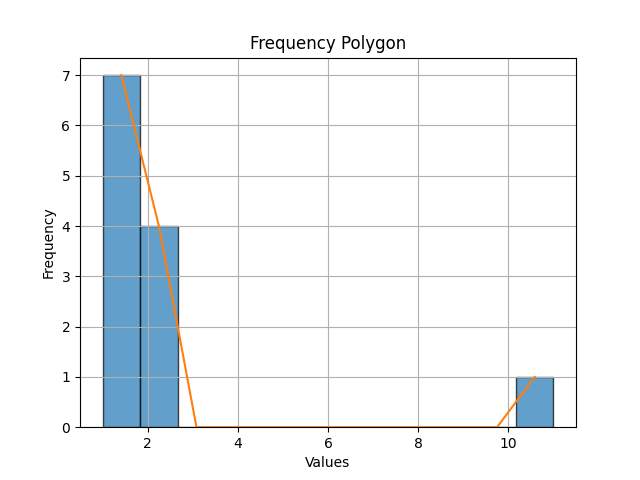
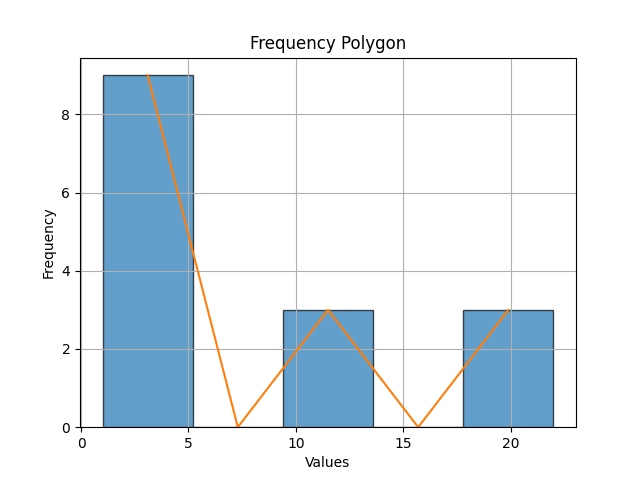
adden kurtoisis and skewness graphs

diff --git a/main.py b/main.py
@@ -3,7 +3,12 @@ from PyQt5.QtWidgets import QApplication, QMainWindow, QLabel, QLineEdit, QPushB
 from PyQt5.QtGui import QColor, QPalette, QPixmap  
 from PyQt5.QtCore import Qt 
 from data_processing import process_data  
-from plotting import calculate_frequency_polygon, calculate_cumulative_curve
+from plotting import calculate_frequency_polygon, calculate_cumulative_curve, calculate_skewness_graph, calculate_kurtosis_graph
+import cgitb
+import codecs
+
+cgitb.enable()
+sys.stdout = codecs.getwriter("utf-8")(sys.stdout.detach())
 
 class MainWindow(QMainWindow):
     def __init__(self):
@@ -17,9 +22,9 @@ class MainWindow(QMainWindow):
         self.central_widget.setLayout(self.layout)
 
         input_container_layout = QVBoxLayout()  
-        self.input_label = QLabel("Enter numbers (separated by space):")
+        self.input_label = QLabel("Введіть числа (розділені пробілами):")
         self.input_field = QLineEdit()
-        self.calculate_button = QPushButton("Calculate")
+        self.calculate_button = QPushButton("Розрахувати")
         self.calculate_button.clicked.connect(lambda: self.calculate_callback())
 
         input_container_layout.addWidget(self.input_label)
@@ -35,8 +40,8 @@ class MainWindow(QMainWindow):
         # Create two tabs
         self.tab_statistics = QWidget()
         self.tab_graphs = QWidget()
-        self.tab_widget.addTab(self.tab_statistics, "Statistics")
-        self.tab_widget.addTab(self.tab_graphs, "Graphs")
+        self.tab_widget.addTab(self.tab_statistics, "Статистика")
+        self.tab_widget.addTab(self.tab_graphs, "Графіки")
 
         # Layouts for each tab
         self.layout_statistics = QVBoxLayout()
@@ -48,10 +53,10 @@ class MainWindow(QMainWindow):
         tables_container = QWidget()  # Create a QWidget to contain the QGridLayout
         tables_layout = QGridLayout(tables_container)
         self.tables = []
-        for i, title in enumerate(["Variation Series", "Statistical Distribution", "Relative Frequencies", "Cumulative Frequencies", "Relative Cumulative Frequencies"]):
+        for i, title in enumerate(["Варіаційний ряд", "Статистичний розподіл", "Відносні частоти", "Накопичувальні частоти", "Відносні накопичувальні частоти"]):
             table = QTableWidget()
             table.setColumnCount(2)
-            table.setHorizontalHeaderLabels(["Statistic", "Value"])
+            table.setHorizontalHeaderLabels(["Статистика", "Значення"])
             self.tables.append(table)
             tables_layout.addWidget(QLabel(f"<b>{title}</b>"), 0, i)
             tables_layout.addWidget(table, 1, i)
@@ -63,12 +68,18 @@ class MainWindow(QMainWindow):
         self.mean_label = QLabel()
         self.variance_label = QLabel()
         self.std_deviation_label = QLabel()
+        self.central_moment_label = QLabel()
+        self.skewness_label = QLabel()
+        self.kurtosis_label = QLabel()
 
         self.layout_statistics.addWidget(self.mode_label)
         self.layout_statistics.addWidget(self.median_label)
         self.layout_statistics.addWidget(self.mean_label)
         self.layout_statistics.addWidget(self.variance_label)
         self.layout_statistics.addWidget(self.std_deviation_label)
+        self.layout_statistics.addWidget(self.central_moment_label)
+        self.layout_statistics.addWidget(self.skewness_label)
+        self.layout_statistics.addWidget(self.kurtosis_label)
 
         # Create sub-tabs for graphs
         self.graphs_tab_widget = QTabWidget()
@@ -77,20 +88,32 @@ class MainWindow(QMainWindow):
         # Create tabs for each type of graph
         self.tab_frequency_polygon = QWidget()
         self.tab_cumulative_curve = QWidget()
-        self.graphs_tab_widget.addTab(self.tab_frequency_polygon, "Frequency Polygon")
-        self.graphs_tab_widget.addTab(self.tab_cumulative_curve, "Cumulative Curve")
+        self.tab_skewness = QWidget()
+        self.tab_kurtosis = QWidget()
+        self.graphs_tab_widget.addTab(self.tab_frequency_polygon, "Частотний Полігон")
+        self.graphs_tab_widget.addTab(self.tab_cumulative_curve, "Кумулятивна Крива")
+        self.graphs_tab_widget.addTab(self.tab_skewness, "Асиметрія")
+        self.graphs_tab_widget.addTab(self.tab_kurtosis, "Ексцес")
 
         # Layouts for each type of graph
         self.layout_frequency_polygon = QVBoxLayout()
         self.layout_cumulative_curve = QVBoxLayout()
+        self.layout_skewness = QVBoxLayout()
+        self.layout_kurtosis = QVBoxLayout()
         self.tab_frequency_polygon.setLayout(self.layout_frequency_polygon)
         self.tab_cumulative_curve.setLayout(self.layout_cumulative_curve)
+        self.tab_skewness.setLayout(self.layout_skewness)
+        self.tab_kurtosis.setLayout(self.layout_kurtosis)
 
         # Placeholder labels for frequency polygon and cumulative curve images
-        self.label_frequency_polygon = QLabel("Frequency Polygon will be displayed here")
-        self.label_cumulative_curve = QLabel("Cumulative Curve will be displayed here")
+        self.label_frequency_polygon = QLabel("Частотний Полігон буде відображено тут")
+        self.label_cumulative_curve = QLabel("Кумулятивна Крива буде відображено тут")
+        self.label_skewness = QLabel("Графік асиметрії буде відображено тут")
+        self.label_kurtosis = QLabel("Графік ексцесу буде відображено тут")
         self.layout_frequency_polygon.addWidget(self.label_frequency_polygon)
         self.layout_cumulative_curve.addWidget(self.label_cumulative_curve)
+        self.layout_skewness.addWidget(self.label_skewness)
+        self.layout_kurtosis.addWidget(self.label_kurtosis)
 
     def calculate_callback(self):
         data = self.input_field.text()
@@ -121,32 +144,55 @@ class MainWindow(QMainWindow):
                     item.setTextAlignment(Qt.AlignCenter)  
                     table.setItem(0, 1, item)
 
-        self.mode_label.setText(f"Mode: {results['Mode']}")
-        self.median_label.setText(f"Median: {results['Median']}")
-        self.mean_label.setText(f"Mean: {results['Mean']}")
-        self.variance_label.setText(f"Variance: {results['Variance']}")
-        self.std_deviation_label.setText(f"Standard Deviation: {results['Standard Deviation']}")
+        self.mode_label.setText(f"Мода: {results['Mode']}")
+        self.median_label.setText(f"Медіана: {results['Median']}")
+        self.mean_label.setText(f"Середнє: {results['Mean']}")
+        self.variance_label.setText(f"Дисперсія: {results['Variance']}")
+        self.std_deviation_label.setText(f"Стандартне відхилення: {results['Standard Deviation']}")
+        self.central_moment_label.setText(f"Центральний момент 2-го порядку: {results['Central Moment (2nd Order)']}")
+        self.skewness_label.setText(f"Асиметрія: {results['Skewness']}")
+        self.kurtosis_label.setText(f"Ексцес: {results['Kurtosis']}")
 
         frequency_data = calculate_frequency_polygon(numbers)
         frequency_pixmap = QPixmap(frequency_data)
         tab_size = self.tab_frequency_polygon.size()  # Get the size of the tab
         scaling_factor = min(tab_size.width() / frequency_pixmap.width(), tab_size.height() / frequency_pixmap.height())
-        scaled_width = int(frequency_pixmap.width() * scaling_factor * 2.5)  # Increase scaling factor slightly
-        scaled_height = int(frequency_pixmap.height() * scaling_factor * 2.5)  # Increase scaling factor slightly
+        scaled_width = int(frequency_pixmap.width() * scaling_factor * 2)  # Increase scaling factor slightly
+        scaled_height = int(frequency_pixmap.height() * scaling_factor * 2)  # Increase scaling factor slightly
         frequency_pixmap = frequency_pixmap.scaled(scaled_width, scaled_height)
         self.label_frequency_polygon.setPixmap(frequency_pixmap)
         self.label_frequency_polygon.setAlignment(Qt.AlignCenter)  # Center the pixmap within the label
 
-        # Calculate and update cumulative curve
         cumulative_data = calculate_cumulative_curve(numbers)
         cumulative_pixmap = QPixmap(cumulative_data)
         tab_size = self.tab_cumulative_curve.size()  # Get the size of the tab
         scaling_factor = min(tab_size.width() / cumulative_pixmap.width(), tab_size.height() / cumulative_pixmap.height())
-        scaled_width = int(cumulative_pixmap.width() * scaling_factor * 2.5)  # Increase scaling factor slightly
-        scaled_height = int(cumulative_pixmap.height() * scaling_factor * 2.5)  # Increase scaling factor slightly
+        scaled_width = int(cumulative_pixmap.width() * scaling_factor * 2)  # Increase scaling factor slightly
+        scaled_height = int(cumulative_pixmap.height() * scaling_factor * 2)  # Increase scaling factor slightly
         cumulative_pixmap = cumulative_pixmap.scaled(scaled_width, scaled_height)
         self.label_cumulative_curve.setPixmap(cumulative_pixmap)
         self.label_cumulative_curve.setAlignment(Qt.AlignCenter)  # Center the pixmap within the label
+
+        # Графіки асиметрії та ексцесу
+        skewness_data = calculate_skewness_graph(numbers)
+        skewness_pixmap = QPixmap(skewness_data)
+        tab_size = self.tab_skewness.size()
+        scaling_factor = min(tab_size.width() / skewness_pixmap.width(), tab_size.height() / skewness_pixmap.height())
+        scaled_width = int(skewness_pixmap.width() * scaling_factor * 2)
+        scaled_height = int(skewness_pixmap.height() * scaling_factor * 2)
+        skewness_pixmap = skewness_pixmap.scaled(scaled_width, scaled_height)
+        self.label_skewness.setPixmap(skewness_pixmap)
+        self.label_skewness.setAlignment(Qt.AlignCenter)
+
+        kurtosis_data = calculate_kurtosis_graph(numbers)
+        kurtosis_pixmap = QPixmap(kurtosis_data)
+        tab_size = self.tab_kurtosis.size()
+        scaling_factor = min(tab_size.width() / kurtosis_pixmap.width(), tab_size.height() / kurtosis_pixmap.height())
+        scaled_width = int(kurtosis_pixmap.width() * scaling_factor * 2)
+        scaled_height = int(kurtosis_pixmap.height() * scaling_factor * 2)
+        kurtosis_pixmap = kurtosis_pixmap.scaled(scaled_width, scaled_height)
+        self.label_kurtosis.setPixmap(kurtosis_pixmap)
+        self.label_kurtosis.setAlignment(Qt.AlignCenter)
 
 if __name__ == "__main__":
     app = QApplication(sys.argv)
@@ -169,5 +215,7 @@ if __name__ == "__main__":
     app.setPalette(palette)
 
     window = MainWindow()
-    window.showMaximized()  
+    window.showMaximized()
+    window.show()
+
     sys.exit(app.exec_())

diff --git a/plotting.py b/plotting.py
@@ -1,62 +1,66 @@
-import numpy as np
 import matplotlib.pyplot as plt
+import numpy as np
+import tempfile
 
-def calculate_frequency_polygon(data):
-    """
-    Calculate the frequency polygon.
-
-    Parameters:
-        data (list): List of numbers.
-
-    Returns:
-        str: Path to the saved image of the frequency polygon.
-    """
-    # Calculate histogram
-    plt.hist(data, bins='auto', edgecolor='black', alpha=0.7)
-    plt.title('Frequency Polygon')
-    plt.xlabel('Values')
-    plt.ylabel('Frequency')
-    plt.grid(True)
-    
-    # Fit a line to the histogram
-    hist, bins = np.histogram(data, bins='auto')
+def calculate_frequency_polygon(numbers):
+    counts, bins = np.histogram(numbers, bins='auto')
     bin_centers = 0.5 * (bins[:-1] + bins[1:])
-    plt.plot(bin_centers, hist, '-')
-    
-    # Save the plot
-    frequency_polygon_path = 'frequency_polygon.png'
-    plt.savefig(frequency_polygon_path)
-    plt.close()
-    
-    return frequency_polygon_path
 
-def Plotting():
-    pass
+    fig, ax = plt.subplots()
+    ax.plot(bin_centers, counts, marker='o', linestyle='-', color='b')
+    ax.set_title('Частотний Полігон')
+    ax.set_xlabel('Числа')
+    ax.set_ylabel('Частоти')
 
-def calculate_cumulative_curve(data):
-    """
-    Calculate the cumulative curve.
+    with tempfile.NamedTemporaryFile(delete=False, suffix='.png') as temp_file:
+        plt.savefig(temp_file.name)
+        plt.close(fig)
+        return temp_file.name
 
-    Parameters:
-        data (list): List of numbers.
+def calculate_cumulative_curve(numbers):
+    counts, bin_edges = np.histogram(numbers, bins='auto', density=True)
+    cdf = np.cumsum(counts)
+    cdf = cdf / cdf[-1]
 
-    Returns:
-        str: Path to the saved image of the cumulative curve.
-    """
-    # Calculate cumulative distribution function
-    sorted_data = np.sort(data)
-    y = np.arange(len(sorted_data)) / float(len(sorted_data))
-    
-    # Plot cumulative curve
-    plt.plot(sorted_data, y, marker='.', linestyle='none')
-    plt.title('Cumulative Curve')
-    plt.xlabel('Values')
-    plt.ylabel('Cumulative Probability')
-    plt.grid(True)
-    
-    # Save the plot
-    cumulative_curve_path = 'cumulative_curve.png'
-    plt.savefig(cumulative_curve_path)
-    plt.close()
-    
-    return cumulative_curve_path
+    fig, ax = plt.subplots()
+    ax.plot(bin_edges[1:], cdf, marker='o', linestyle='-', color='g')
+    ax.set_title('Кумулятивна Крива')
+    ax.set_xlabel('Числа')
+    ax.set_ylabel('Кумулятивна частота')
+
+    with tempfile.NamedTemporaryFile(delete=False, suffix='.png') as temp_file:
+        plt.savefig(temp_file.name)
+        plt.close(fig)
+        return temp_file.name
+
+def calculate_skewness_graph(numbers):
+    mean = np.mean(numbers)
+    std_dev = np.std(numbers)
+    skewness_values = [(x - mean) ** 3 / std_dev ** 3 for x in numbers]
+
+    fig, ax = plt.subplots()
+    ax.fill_between(range(len(skewness_values)), skewness_values, color='b', alpha=0.5)
+    ax.set_title('Графік Асиметрії')
+    ax.set_xlabel('Індекс')
+    ax.set_ylabel('Асиметрія')
+
+    with tempfile.NamedTemporaryFile(delete=False, suffix='.png') as temp_file:
+        plt.savefig(temp_file.name)
+        plt.close(fig)
+        return temp_file.name
+
+def calculate_kurtosis_graph(numbers):
+    mean = np.mean(numbers)
+    std_dev = np.std(numbers)
+    kurtosis_values = [(x - mean) ** 4 / std_dev ** 4 - 3 for x in numbers]
+
+    fig, ax = plt.subplots()
+    ax.fill_between(range(len(kurtosis_values)), kurtosis_values, color='g', alpha=0.5)
+    ax.set_title('Графік Ексцесу')
+    ax.set_xlabel('Індекс')
+    ax.set_ylabel('Ексцес')
+
+    with tempfile.NamedTemporaryFile(delete=False, suffix='.png') as temp_file:
+        plt.savefig(temp_file.name)
+        plt.close(fig)
+        return temp_file.name

diff --git a/data_processing.py b/data_processing.py
@@ -8,11 +8,14 @@ def process_data(numbers):
     cumulative_frequencies = np.cumsum(counts)
     relative_cumulative_frequencies = np.cumsum(relative_frequencies)
     
-    mode = unique[np.argmax(counts)]
-    median = np.median(variation_series)
-    mean = np.mean(variation_series)
-    variance = np.var(variation_series)
-    std_deviation = np.std(variation_series)
+    mode = unique[np.argmax(counts)]  # мода
+    median = np.median(variation_series)  # медіана
+    mean = np.mean(variation_series)  # математичне сподівання
+    variance = np.var(variation_series)  # дисперсія 
+    std_deviation = np.std(variation_series)  # середнє квадратичне відхилення
+    central_moment_second_order = np.mean((variation_series - mean) ** 2) # Центральний момент другого порядку
+    skewness = np.mean((variation_series - mean) ** 3) / (std_deviation ** 3) # Асиметрія
+    kurtosis = np.mean((variation_series - mean) ** 4) / (std_deviation ** 4) - 3 # Ексцес
 
     results = {
         'Variation Series': variation_series,
@@ -24,7 +27,10 @@ def process_data(numbers):
         'Median': median,
         'Mean': mean,
         'Variance': variance,
-        'Standard Deviation': std_deviation
+        'Standard Deviation': std_deviation,
+        'Central Moment (2nd Order)': central_moment_second_order,
+        'Skewness': skewness,
+        'Kurtosis': kurtosis
     }
     
     return results

diff --git a/tempCodeRunnerFile.py b/tempCodeRunnerFile.py
@@ -1,1 +1,1 @@
-Plotting
+matplotlib.pyplot
